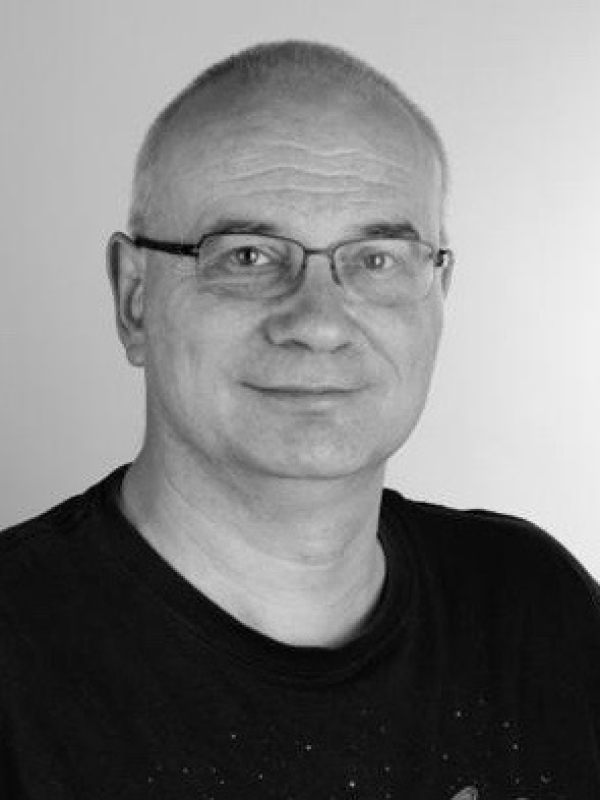
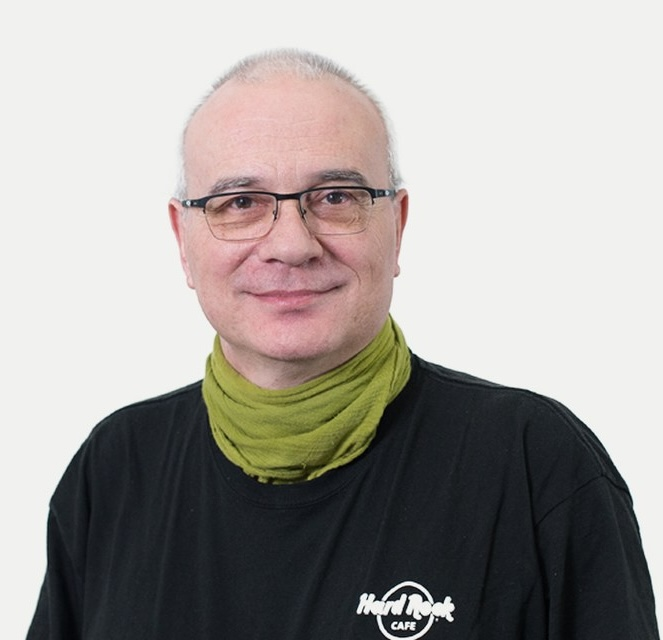
team photo in color, new photo for R. Hohl and L. Rosenthaler

diff --git a/assets/css/style.css b/assets/css/style.css
@@ -1441,8 +1441,6 @@ display: none;
 }
 
 #team-basel img, #team-bern img, #project-partners img {
-    filter: grayscale(100%);
-    -webkit-filter: grayscale(100%);
     height: 200px;
     width: 150px;
     object-fit: cover;
